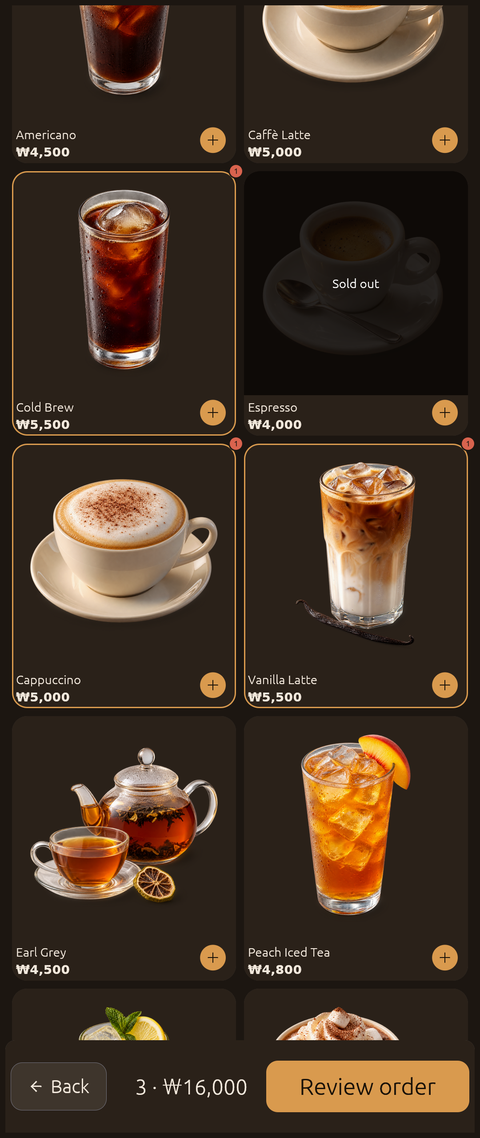
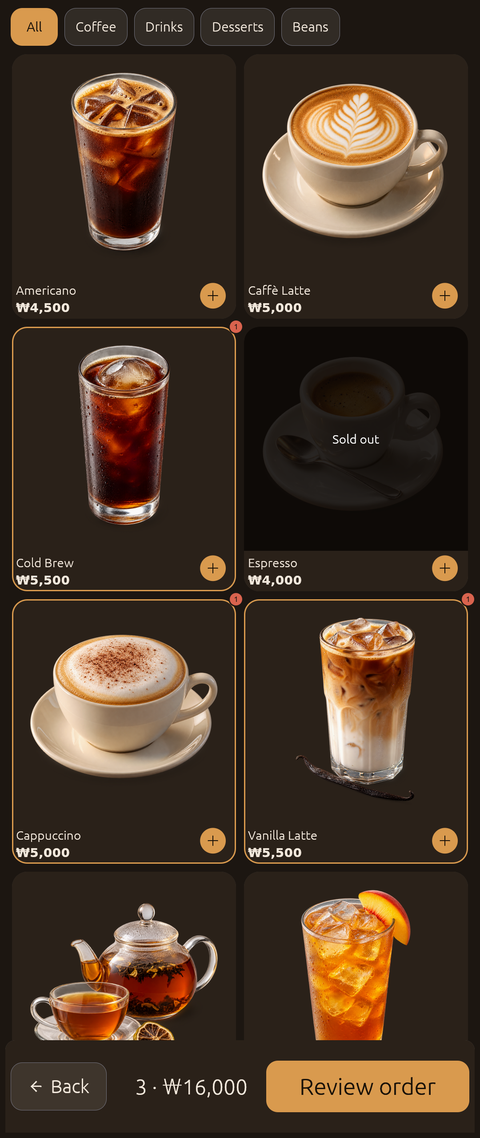
Retake the README images and show the unlock prompt
The README gains a row for the unlock prompt: the PIN pad and the pattern
method, from the demo tour. tools/readme-gifs.sh now rebuilds the stills
as well as the animations, so every image in docs/images comes from one run.

The kiosk tour's taps are re-aimed so the cart again holds three items.

Claude-Session: https://claude.ai/code/session_0132doLQGUyyo47XaKDueM1Z

diff --git a/crates/fairing/examples/kiosk.rs b/crates/fairing/examples/kiosk.rs
@@ -2372,15 +2372,16 @@ const TOUR_PORTRAIT: &[common::Act] = &[
     common::Act::Wait(4),
     common::Act::Shot("03-menu.png"),
     // Add to the cart — with the press frame and the release frame adjacent, the click does not register.
+    // Cold Brew, then Cappuccino and Vanilla Latte on the row below.
     common::Act::Press(300.0, 1000.0),
     common::Act::Wait(2),
     common::Act::Release,
     common::Act::Settle,
-    common::Act::Press(300.0, 1000.0),
+    common::Act::Press(300.0, 1640.0),
     common::Act::Wait(2),
     common::Act::Release,
     common::Act::Settle,
-    common::Act::Press(780.0, 1000.0),
+    common::Act::Press(780.0, 1640.0),
     common::Act::Wait(2),
     common::Act::Release,
     common::Act::Settle,

diff --git a/README.md b/README.md
@@ -47,6 +47,14 @@ repaint policy.
     <td>Two-set Hangul with composition on the on-screen keyboard (<code>demo</code>)</td>
     <td>One of the built-in settings screens (<code>demo</code>)</td>
   </tr>
+  <tr>
+    <td><img src="docs/images/unlock-pin.png" alt="The unlock prompt over the desktop: a PIN and Pattern switch, four empty PIN dots and a number pad with backspace and confirm keys"></td>
+    <td><img src="docs/images/unlock-pattern.png" alt="The unlock prompt's pattern method: a three-by-three grid of dots with a Z-shaped pattern drawn through seven of them"></td>
+  </tr>
+  <tr>
+    <td>The unlock prompt asks for a PIN before a protected screen opens (<code>demo</code>)</td>
+    <td>The same prompt with the pattern method, a pattern drawn (<code>demo</code>)</td>
+  </tr>
 </table>
 
 ```rust
@@ -275,7 +283,7 @@ take `--size=WxH`. All of them but `hello` and `motion_lab` take `--tour <dir>`,
 example through a script and writes a PNG at each step. Add `--record` and the tour
 runs on a fixed 60 Hz clock, however slowly the machine draws, and writes the frames
 of its animated stretches as well. The screenshots and animations on this page come
-from those tours, and `tools/readme-gifs.sh` rebuilds the animations. `bench` is
+from those tours, and `tools/readme-gifs.sh` rebuilds them all. `bench` is
 headless.
 
 | Example | What it shows |

diff --git a/docs/guide/01-getting-started.md b/docs/guide/01-getting-started.md
@@ -354,7 +354,7 @@ the one before, however long it took to draw, so a software rasteriser records a
 smoothly as a GPU. The animated stretches of the script are written as frames, 30 a
 second, each into a folder of its own (`demo-desktop/0000.png`, …). Stitch them into
 a GIF or a video with any tool. `tools/make_gif.py` turns one folder into a GIF (it
-needs Pillow), and `tools/readme-gifs.sh` rebuilds the animations in the repository's
+needs Pillow), and `tools/readme-gifs.sh` rebuilds the images in the repository's
 README that way, end to end.
 
 ## 6. Testing your UI headless

diff --git a/CONTRIBUTING.md b/CONTRIBUTING.md
@@ -60,7 +60,7 @@ line disable the audit itself.
 
 ## Rebuilding the README's animations
 
-The GIFs in `docs/images/` are recorded from the `demo`, `console` and `kiosk` tours. If a change
+The GIFs and screenshots in `docs/images/` come from the `demo`, `console` and `kiosk` tours. If a change
 alters what one of them shows, rebuild them and commit the result:
 
 ```sh
